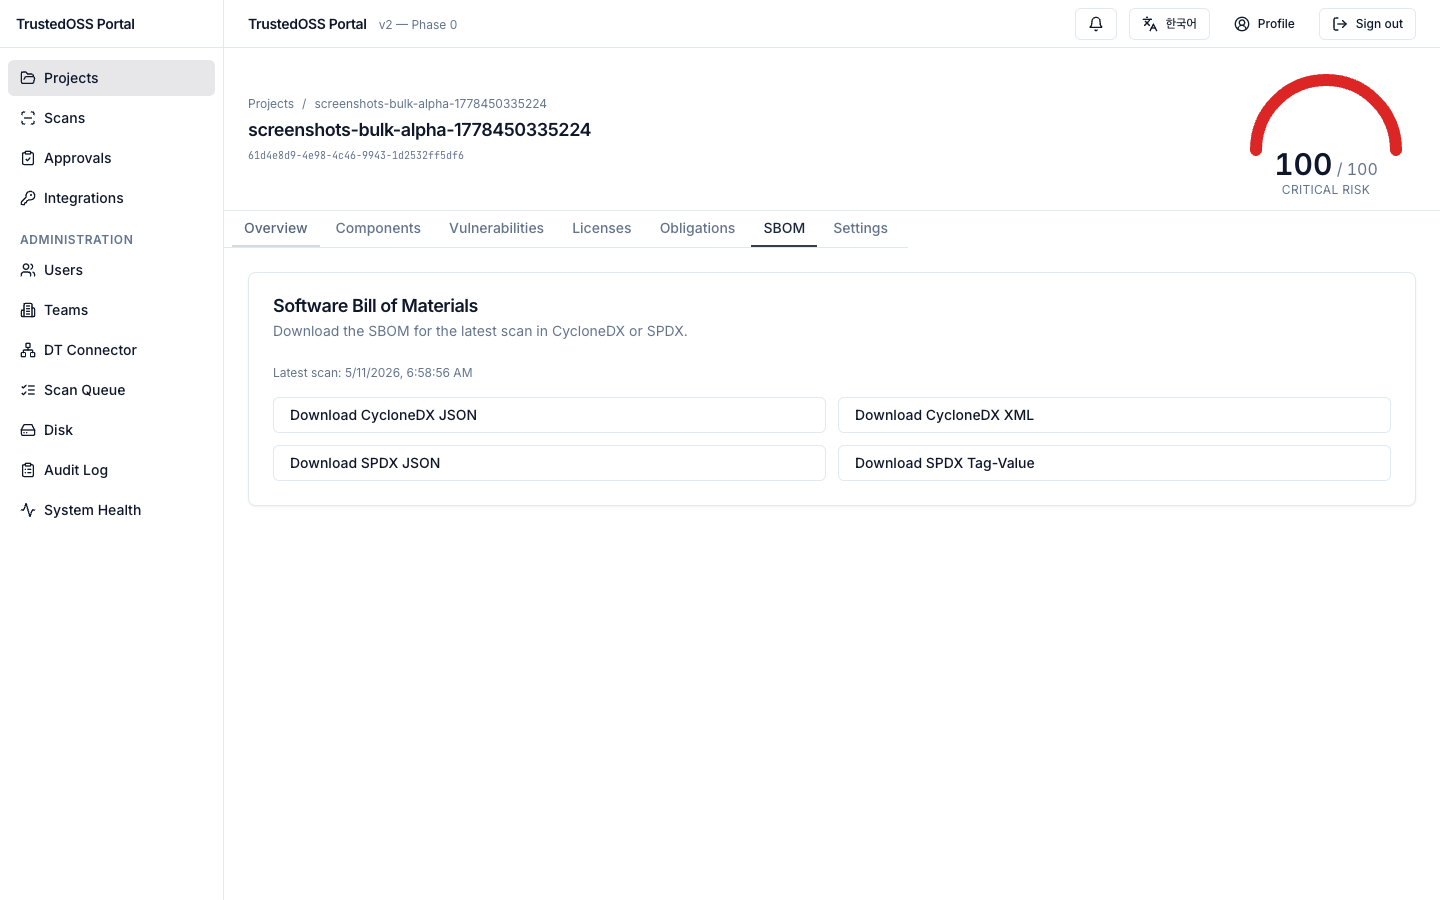
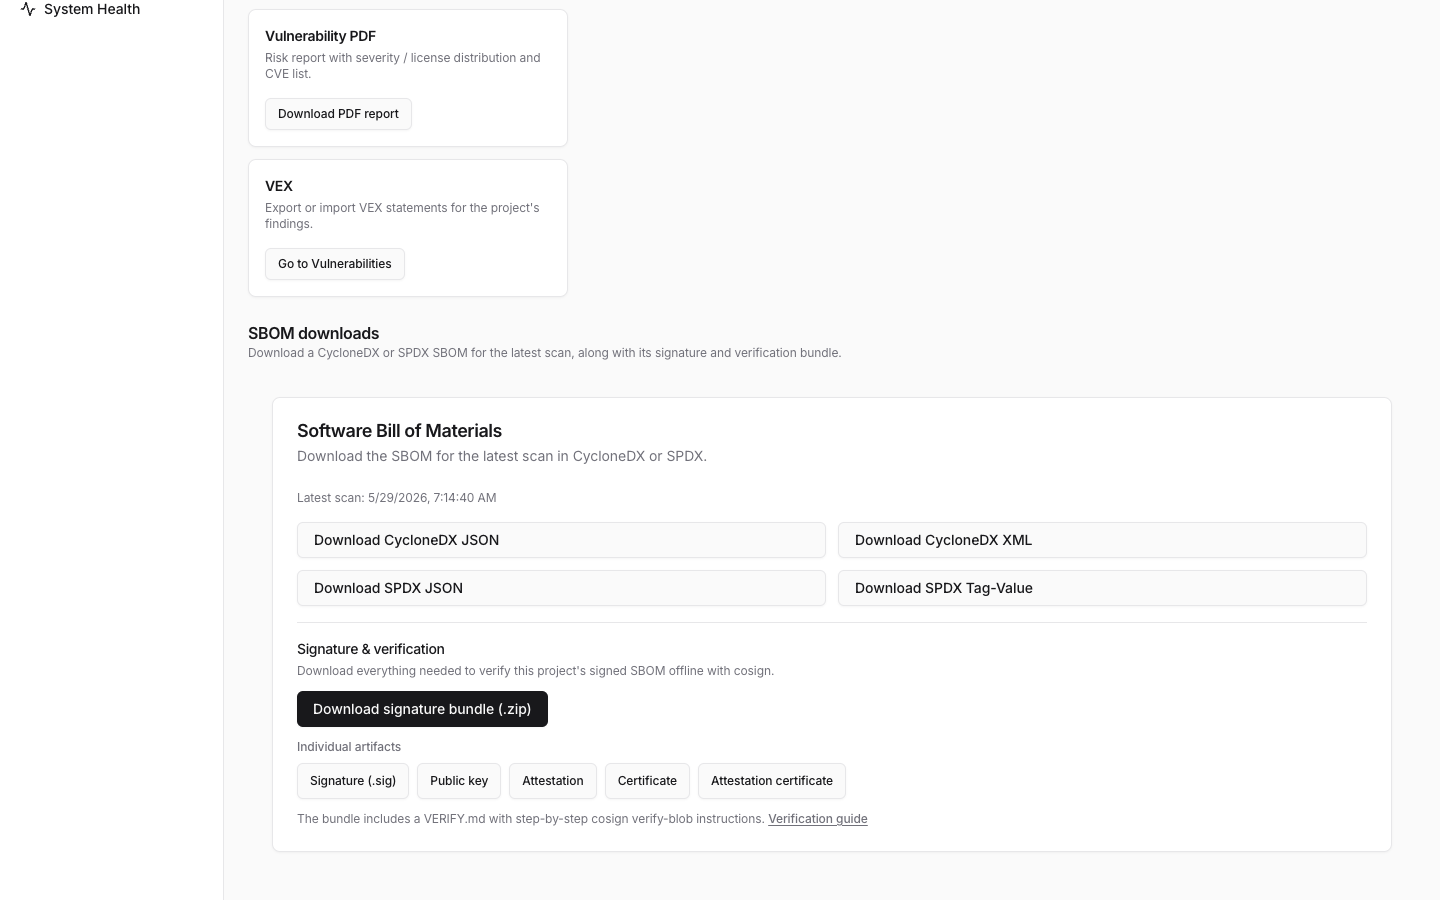
docs(vex): bulk-bar capture + VEX state diagram + SBOM refresh + GitHub App note (#269)
Three improvements pointed at the user-guide pages that carried the most
prose relative to visual aid:

1. Vulnerabilities — VEX state machine + bulk action bar
   - VEX state machine section now renders the seven-state CycloneDX
     model as a Mermaid `stateDiagram-v2` instead of just the table.
     The diagram traces the gate the prose describes: every terminal
     state is routed through `analyzing`, brand-new findings can't jump
     straight to a verdict, and every terminal state can `Reopen` back
     into `analyzing`. EN + KO.
   - Bulk-transition section gets a captured shot of the bulk action
     bar (count + Set status to + Apply / Clear) that renders once two
     rows are ticked. The bar lives above the fold but only after row
     selection, so prior readers had to find it by experimentation.
     EN + KO.

2. SBOM — `user-sbom-format-buttons.png` was stale (5-11 capture of
   the legacy SBOM tab). The capture spec now scrolls the four
   `Download CycloneDX JSON / XML` + `Download SPDX JSON / Tag-Value`
   buttons into the viewport (W4-C absorbed the standalone SBOM tab
   into Reports, so they sit below the fold by default), then takes
   the snapshot. The new PNG matches the docs caption.

3. GitHub App — clarified there's no in-portal registration form in
   this release. The page lists API endpoints, but the prose used to
   read like a UI walkthrough; an `:::info API-only management` admo-
[…]

diff --git a/apps/frontend/tests/screenshots/capture_user_guide.spec.ts b/apps/frontend/tests/screenshots/capture_user_guide.spec.ts
@@ -300,6 +300,55 @@ test.describe.serial("@screenshots user-guide/vulnerabilities", () => {
       .scrollIntoViewIfNeeded();
     await captureScreenshot(page, "user-vulns-drawer-vex");
   });
+
+  // Drawer's "Recommended upgrade" section — shipped in the same drawer
+  // body as the VEX action buttons but typically lives below the fold.
+  // Captured as a section so the figure matches the "Recommended
+  // upgrade" prose in the user guide.
+  test("user-vulns-drawer-upgrade — drawer Recommended upgrade panel", async ({
+    page,
+  }) => {
+    const portal = new PortalPage(page);
+    await portal.gotoProjects();
+    await portal.openProjectDetail(primaryProject());
+    await portal.expectProjectDetailMounted();
+    await portal.selectVulnerabilitiesTab();
+    await portal.expectVulnerabilitiesTabReady();
+    await portal.openFirstVulnerabilityDrawer();
+    await page
+      .getByTestId("vulnerability-drawer-upgrade")
+      .scrollIntoViewIfNeeded();
+    await captureSection(
+      page,
+      "user-vulns-drawer-upgrade",
+      "vulnerability-drawer-upgrade",
+    );
+  });
+
+  // Bulk action bar shown after multi-selecting rows. We tick the first
+  // two row checkboxes (the seed always seeds ≥ 30 findings), which
+  // triggers the bar's render, then capture the bar element.
+  test("user-vulns-bulk-bar — Bulk action bar after multi-selecting rows", async ({
+    page,
+  }) => {
+    const portal = new PortalPage(page);
+    await portal.gotoProjects();
+    await portal.openProjectDetail(primaryProject());
+    await portal.expectProjectDetailMounted();
+    await portal.selectVulnerabilitiesTab();
+    await portal.expectVulnerabilitiesTabReady();
+    const checkboxes = page.getByTestId("vulnerability-row-checkbox");
+    await checkboxes.nth(0).click();
+    await checkboxes.nth(1).click();
+    await page
+      .getByTestId("vulnerabilities-bulk-action-bar")
+      .waitFor({ state: "visible", timeout: 10_000 });
+    await captureSection(
+      page,
+      "user-vulns-bulk-bar",
+      "vulnerabilities-bulk-action-bar",
+    );
+  });
 });
 
 // ════════════════════════════════════════════════════════════════════
@@ -389,6 +438,13 @@ test.describe.serial("@screenshots user-guide/sbom", () => {
     await page
       .getByTestId("sbom-download-spdx-tv")
       .waitFor({ state: "visible", timeout: 10_000 });
+    // The four download buttons live below the fold on the Reports tab
+    // (W4-C absorbed the old SBOM tab into Reports). Scroll them into
+    // view so the snapshot matches the docs caption ("four format
+    // download buttons"), not the Reports overview.
+    await page
+      .getByTestId("sbom-download-cyclonedx-json")
+      .scrollIntoViewIfNeeded();
     await captureScreenshot(page, "user-sbom-format-buttons");
   });
 });

diff --git a/docs-site/docs/user-guide/vulnerabilities.md b/docs-site/docs/user-guide/vulnerabilities.md
@@ -41,6 +41,24 @@ The default policy fails the build only on `Critical`. Project owners can lower 
 
 Findings follow the [CycloneDX VEX (Vulnerability Exploitability eXchange)](https://cyclonedx.org/capabilities/vex/) seven-state model. Each finding starts in **New** and transitions as analysts triage it.
 
+```mermaid
+stateDiagram-v2
+  direction LR
+  [*] --> New
+  New --> Analyzing: Mark in triage
+  New --> Suppressed: Mark suppressed
+  Analyzing --> Exploitable: Mark exploitable
+  Analyzing --> Not_affected: Mark not affected
+  Analyzing --> False_positive: Mark false positive
+  Analyzing --> Fixed: Mark fixed
+  Analyzing --> Suppressed: Mark suppressed
+  Exploitable --> Analyzing: Reopen
+  Not_affected --> Analyzing: Reopen
+  False_positive --> Analyzing: Reopen
+  Fixed --> Analyzing: Reopen
+  Suppressed --> Analyzing: Reopen
+```
+
 | State | Definition | Build gate |
 |---|---|---|
 | **New** | Just discovered; not triaged. | Counts. |
@@ -101,6 +119,8 @@ The walkthrough below opens a project, switches to **Vulnerabilities**, and clic
 ## Bulk-transition findings {#bulk-transition}
 
 When several findings share the same disposition — for example, ten findings all on the same library that you've just upgraded — the toolbar's **Bulk action bar** lets you transition them in one shot instead of opening each drawer.
+
+![Bulk action bar — selected-count + Set status to + Apply / Clear, shown after ticking two rows](/img/screenshots/user-vulns-bulk-bar.png)
 
 1. Tick the row-level checkboxes (or the header tri-state checkbox to select every row on the current page — selection clears automatically when you change filter or page so a stale selection cannot leak across views).
 2. The action bar at the top of the table shows the selected count and the available verdicts for the *common* current state of the selected rows. If the selection mixes states whose legal next-state intersection is empty, the verdict buttons are disabled with a tooltip explaining why.

diff --git a/docs-site/docs/admin-guide/github-app.md b/docs-site/docs/admin-guide/github-app.md
@@ -18,6 +18,10 @@ A **GitHub App** is the credential TrustedOSS uses for fine-grained, per-reposit
 `team_admin` registers / revokes credentials and links installations for their team. `super_admin` can manage any team's. `developer` can read (list / view) their team's credentials but cannot mutate them.
 :::
 
+:::info API-only management
+There is no in-portal form for registering a GitHub App credential in this release — the registration / linking endpoints listed below are the only management surface. A `team_admin`-facing UI is on the roadmap. Until then, the audit trail of any registration is visible under [Audit log](./audit-log.md) (with the encrypted columns masked to `***`).
+:::
+
 ## What it stores
 
 A registered credential is a row scoped to one team. It holds:

diff --git a/docs-site/i18n/ko/docusaurus-plugin-content-docs/current/admin-guide/github-app.md b/docs-site/i18n/ko/docusaurus-plugin-content-docs/current/admin-guide/github-app.md
@@ -18,6 +18,10 @@ sidebar_position: 7
 `team_admin`은 자기 팀의 자격증명을 등록·폐기하고 설치를 연결합니다. `super_admin`은 모든 팀을 관리할 수 있습니다. `developer`는 자기 팀 자격증명을 조회만 할 수 있고 변경은 불가합니다.
 :::
 
+:::info API 전용 관리
+현재 릴리스에서는 GitHub App 자격증명을 등록하는 포털 내 폼이 없습니다 — 아래에 나열된 등록 / 연결 엔드포인트가 유일한 관리 경로입니다. `team_admin` 용 UI 는 로드맵 항목입니다. 그때까지 등록의 감사 흔적은 [감사 로그](./audit-log.md) 에서 확인할 수 있습니다(암호화된 컬럼은 `***` 로 마스킹).
+:::
+
 ## 저장되는 항목
 
 등록된 자격증명은 하나의 팀에 속한 행이며 다음을 보관합니다.